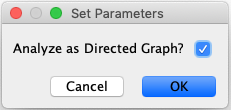
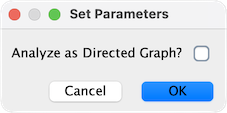
Updates the manual page for Analyzer:
- Updated screenshots.
- Results panel overview: three short paragraphs covering the header (interpretation + network name, the New Analysis... button), the Summary Statistics table and its in-UI documentation (hover tooltips, select-a-row long description, copy button, the Node/Edge Table note), and the chart buttons with the Indegree/Outdegree choice for directed analyses.
- Summary Statistics section: a new Summary Statistics heading under the existing analysis_metrics anchor, listing all 13 metrics that appear in the table, in display order. For each, the long description is the same text as displayed in the App, with minor adaptations for the manual context.

diff --git a/docs/Network_Analyzer.md b/docs/Network_Analyzer.md
@@ -32,31 +32,128 @@ should be analyzed as a directed graph.
 
 When results are ready, they will appear in the **Results Panel**.
 
-![](_static/images/Network_Analyzer/AnalyzerResultsPanel310.png)
+![](_static/images/Network_Analyzer/AnalyzerResultsPanel460.png)
 
-The results have multiple tabs, accessible via the buttons on the bottom of the panel. Details on the network metrics can be
-found
-**[here](http://med.bioinf.mpi-inf.mpg.de/netanalyzer/help/2.7/index.html#complex)**.
+The header of the **Results Panel** shows the interpretation used (**Directed** or
+**Undirected**) and the name of the analyzed network, next to a **New Analysis...**
+button that runs the analysis again — for example, under the other interpretation.
+
+The **Summary Statistics** table lists the network-level metrics described below.
+Hover over a row for a short explanation of that metric, or select a row to see a
+longer description — including its formula, where there is one — in the area below
+the table. The copy button next to the table title copies all statistics to the
+clipboard. Node-specific statistics are added to the **Node Table**, and edge
+*Betweenness* to the **Edge Table**.
+
+The bottom of the panel has buttons that chart the node degree distribution and
+betweenness by degree; for a directed analysis, radio buttons select whether
+**Indegree** or **Outdegree** is plotted.
 
 <a id="analysis_metrics"> </a>
 
--   **Simple Metrics**
+### Summary Statistics
 
--   **Node Degree Distribution**
+The metrics below appear in the **Summary Statistics** table, in this order. All of
+them are computed by both interpretations unless marked otherwise.
 
--   **Clustering Coefficient**
+**Number of nodes**
 
--   **Topological Coefficient**
+The total number of nodes in the network, including nodes with no connections.
 
--   **Average Shortest Path Length**
+**Number of edges**
 
--   **Neighborhood Connectivity**
+The total number of edges in the network, as interpreted by the analysis (paired
+edges may have been combined, depending on the chosen interpretation).
 
--   **Betweenness Centrality**
+**Avg. number of neighbors**
 
--   **Closeness Centrality**
+The average number of neighbors over all nodes, indicating the average connectivity
+of a node in the network. For a simple undirected network, the network density
+equals this value divided by (*N* - 1), where *N* is the number of nodes. In a
+directed analysis, neighbors are counted regardless of edge direction.
 
--   **Stress Centrality**
+**Network diameter**
+
+The distance between two nodes is the length, in edges, of the shortest path
+between them. The network diameter is the largest distance between any two nodes;
+node pairs with no connecting path are ignored. In a directed analysis, paths
+follow edge direction.
+
+**Network radius**
+
+The eccentricity of a node is the largest shortest-path distance from that node to
+any other node in its connected component. The network radius is the smallest
+non-zero node eccentricity (the diameter is the largest). In a directed analysis,
+the eccentricity of a node is the largest shortest-path distance from it to any
+node reachable from it, following edge direction.
+
+**Characteristic path length**
+
+Also known as the average shortest path length: the average shortest-path distance
+over all node pairs for which a path exists. It gives the expected distance between
+two randomly chosen connected nodes. In a directed analysis, paths follow edge
+direction and the pairs are ordered: the distance from one node to another may
+differ from the distance in the opposite direction.
+
+**Clustering coefficient**
+
+The clustering coefficient of a node *n* measures how connected its neighbors are
+to one another: *C*{sub}`n` = 2*e*{sub}`n` / (*k*{sub}`n`(*k*{sub}`n` - 1)), where
+*k*{sub}`n` is the number of neighbors of *n* and *e*{sub}`n` is the number of
+edges between those neighbors. The network clustering coefficient is the average of
+*C*{sub}`n` over all nodes, with nodes having fewer than two neighbors counted as
+0. It ranges from 0 (no neighbor of any node connects to another neighbor) to 1
+(every neighborhood is fully connected).
+
+In a directed analysis, *C*{sub}`n` = *e*{sub}`n` / (*k*{sub}`n`(*k*{sub}`n` - 1)),
+where *k*{sub}`n` is the number of neighbors of *n*, counted regardless of edge
+direction, and *e*{sub}`n` is the number of directed edges between those neighbors,
+counted individually.
+
+**Network density**
+
+The fraction of possible edges that actually exist: *D* = 2*E* / (*N*(*N* - 1)) for
+a network with *N* nodes and *E* edges. It ranges from 0 (no edges) to 1 (every
+possible edge is present); self-loops and duplicated edges are not considered.
+
+In a directed analysis, *D* = *E* / (*N*(*N* - 1)), since each pair of nodes may be
+connected by an edge in each direction.
+
+**Network heterogeneity**
+
+*Undirected analysis only.*
+
+The coefficient of variation of the node degrees: the standard deviation of the
+degrees divided by their mean. A high value indicates greater variation in
+connectivity and a stronger tendency for some nodes to act as hubs.
+
+**Network centralization**
+
+*Undirected analysis only.*
+
+An index of how strongly degree is concentrated in a few nodes:
+*C* = (*N* / (*N* - 2)) · (*k*{sub}`max` / (*N* - 1) - *D*), where *k*{sub}`max` is
+the maximum node degree and *D* is the network density. Star-like networks have
+centralization close to 1, whereas networks where every node has the same number of
+neighbors have centralization close to 0.
+
+**Connected components**
+
+A connected component is a maximal set of nodes such that every pair of nodes is
+connected by a path within the component. The number of connected components
+indicates how fragmented the network is: a fully connected network has a single
+component. Components are always computed ignoring edge direction; for a directed
+network these are, in graph-theory terms, the weakly connected components.
+
+**Multi-edge node pairs**
+
+The number of unordered pairs of nodes that are connected by more than one edge
+(duplicated or parallel edges). Edge direction is ignored, so two edges in opposite
+directions between the same two nodes also form a multi-edge pair.
+
+**Number of self-loops**
+
+The number of edges whose source and target are the same node.
 
 ### Analyze Subset of Nodes
 
